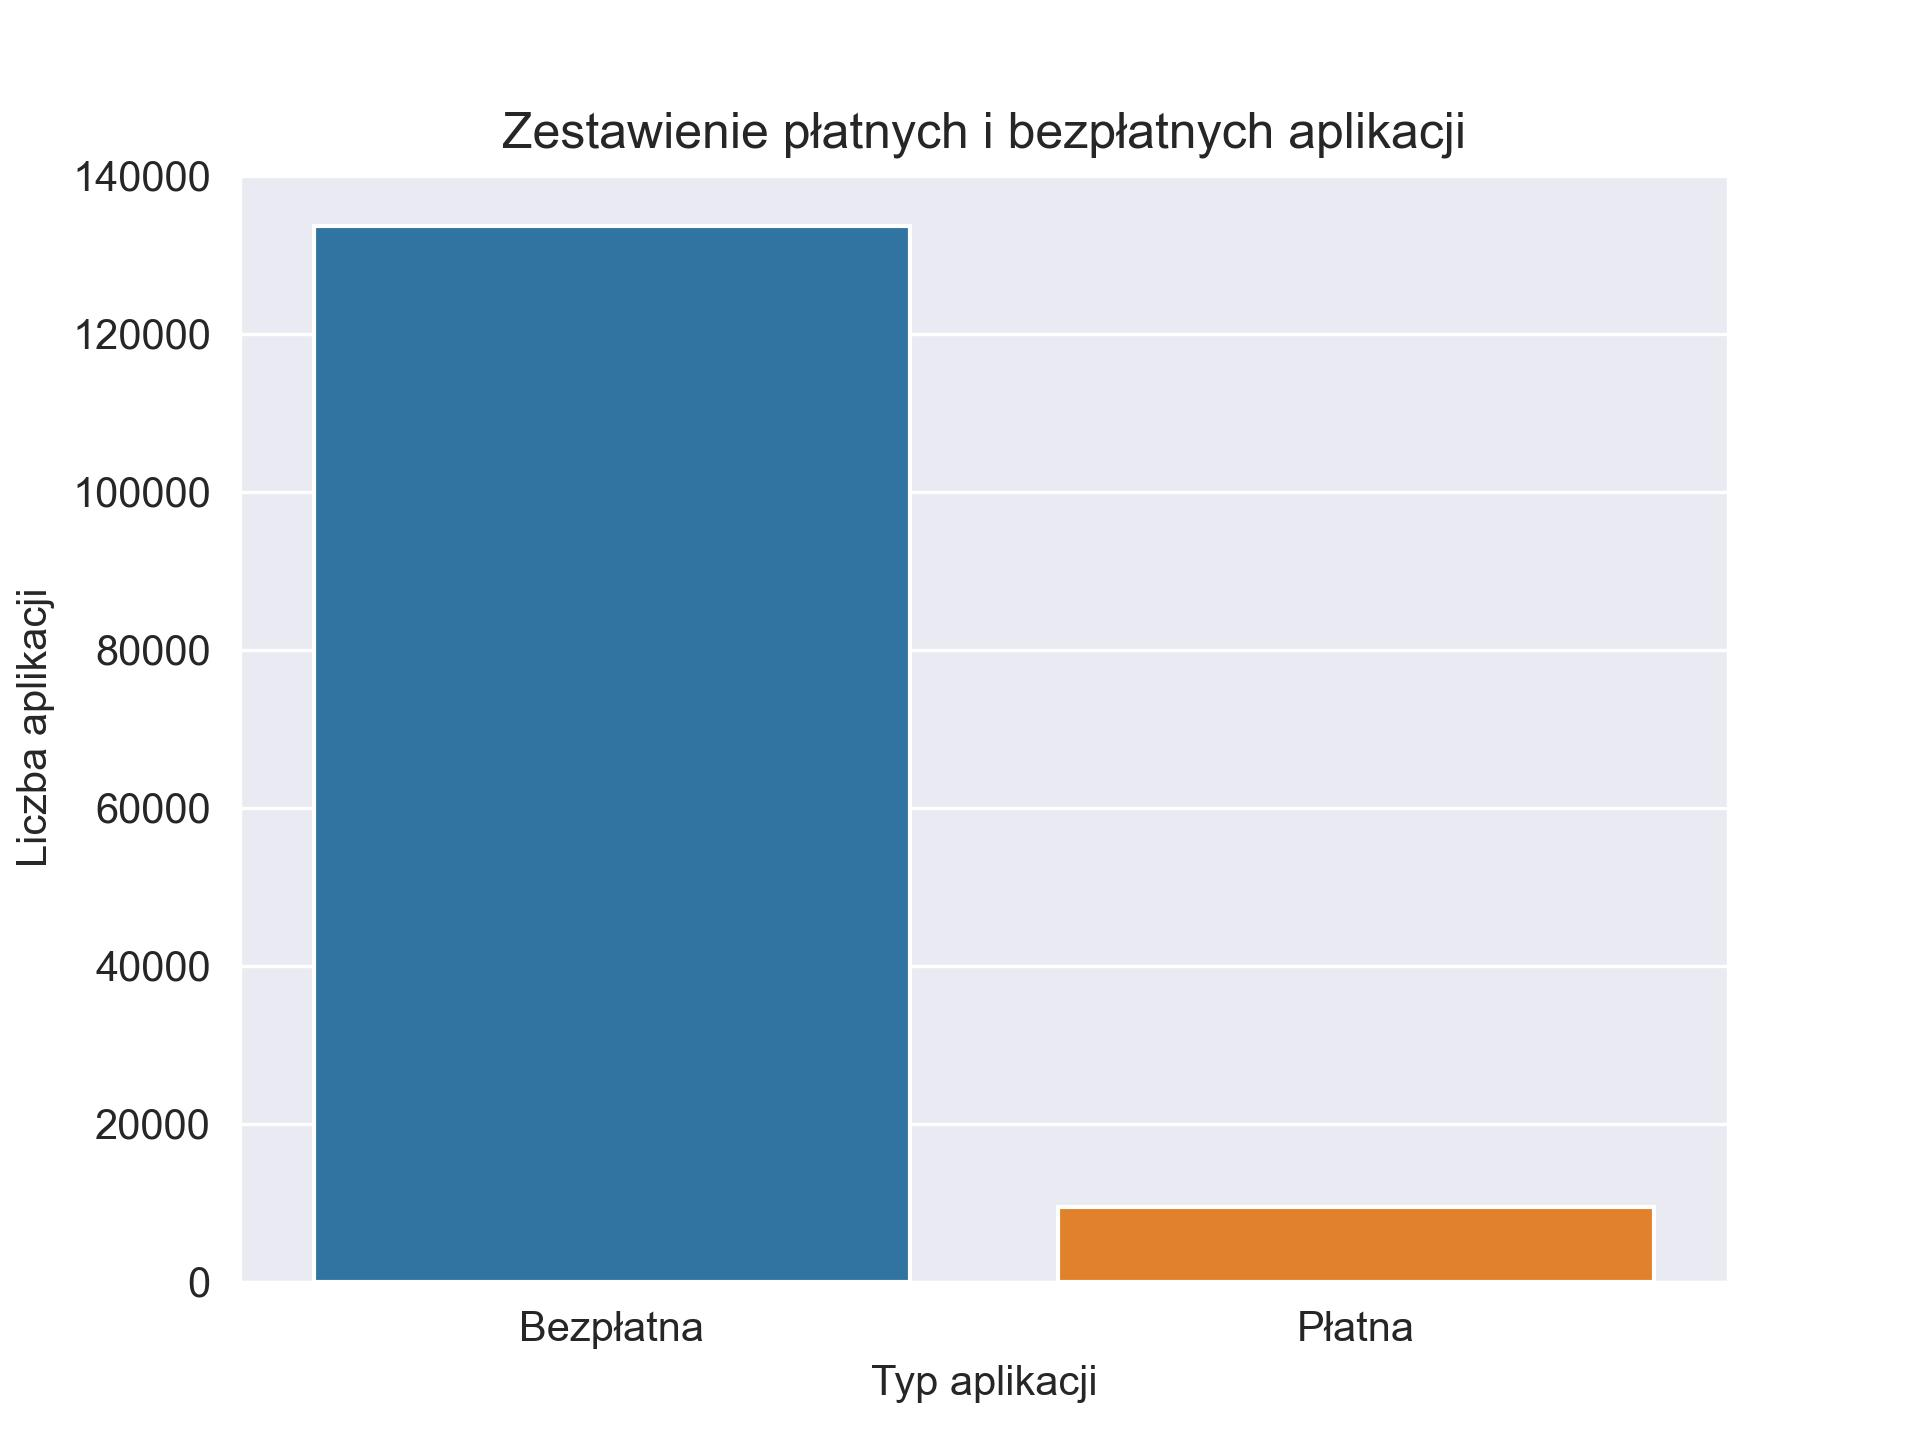
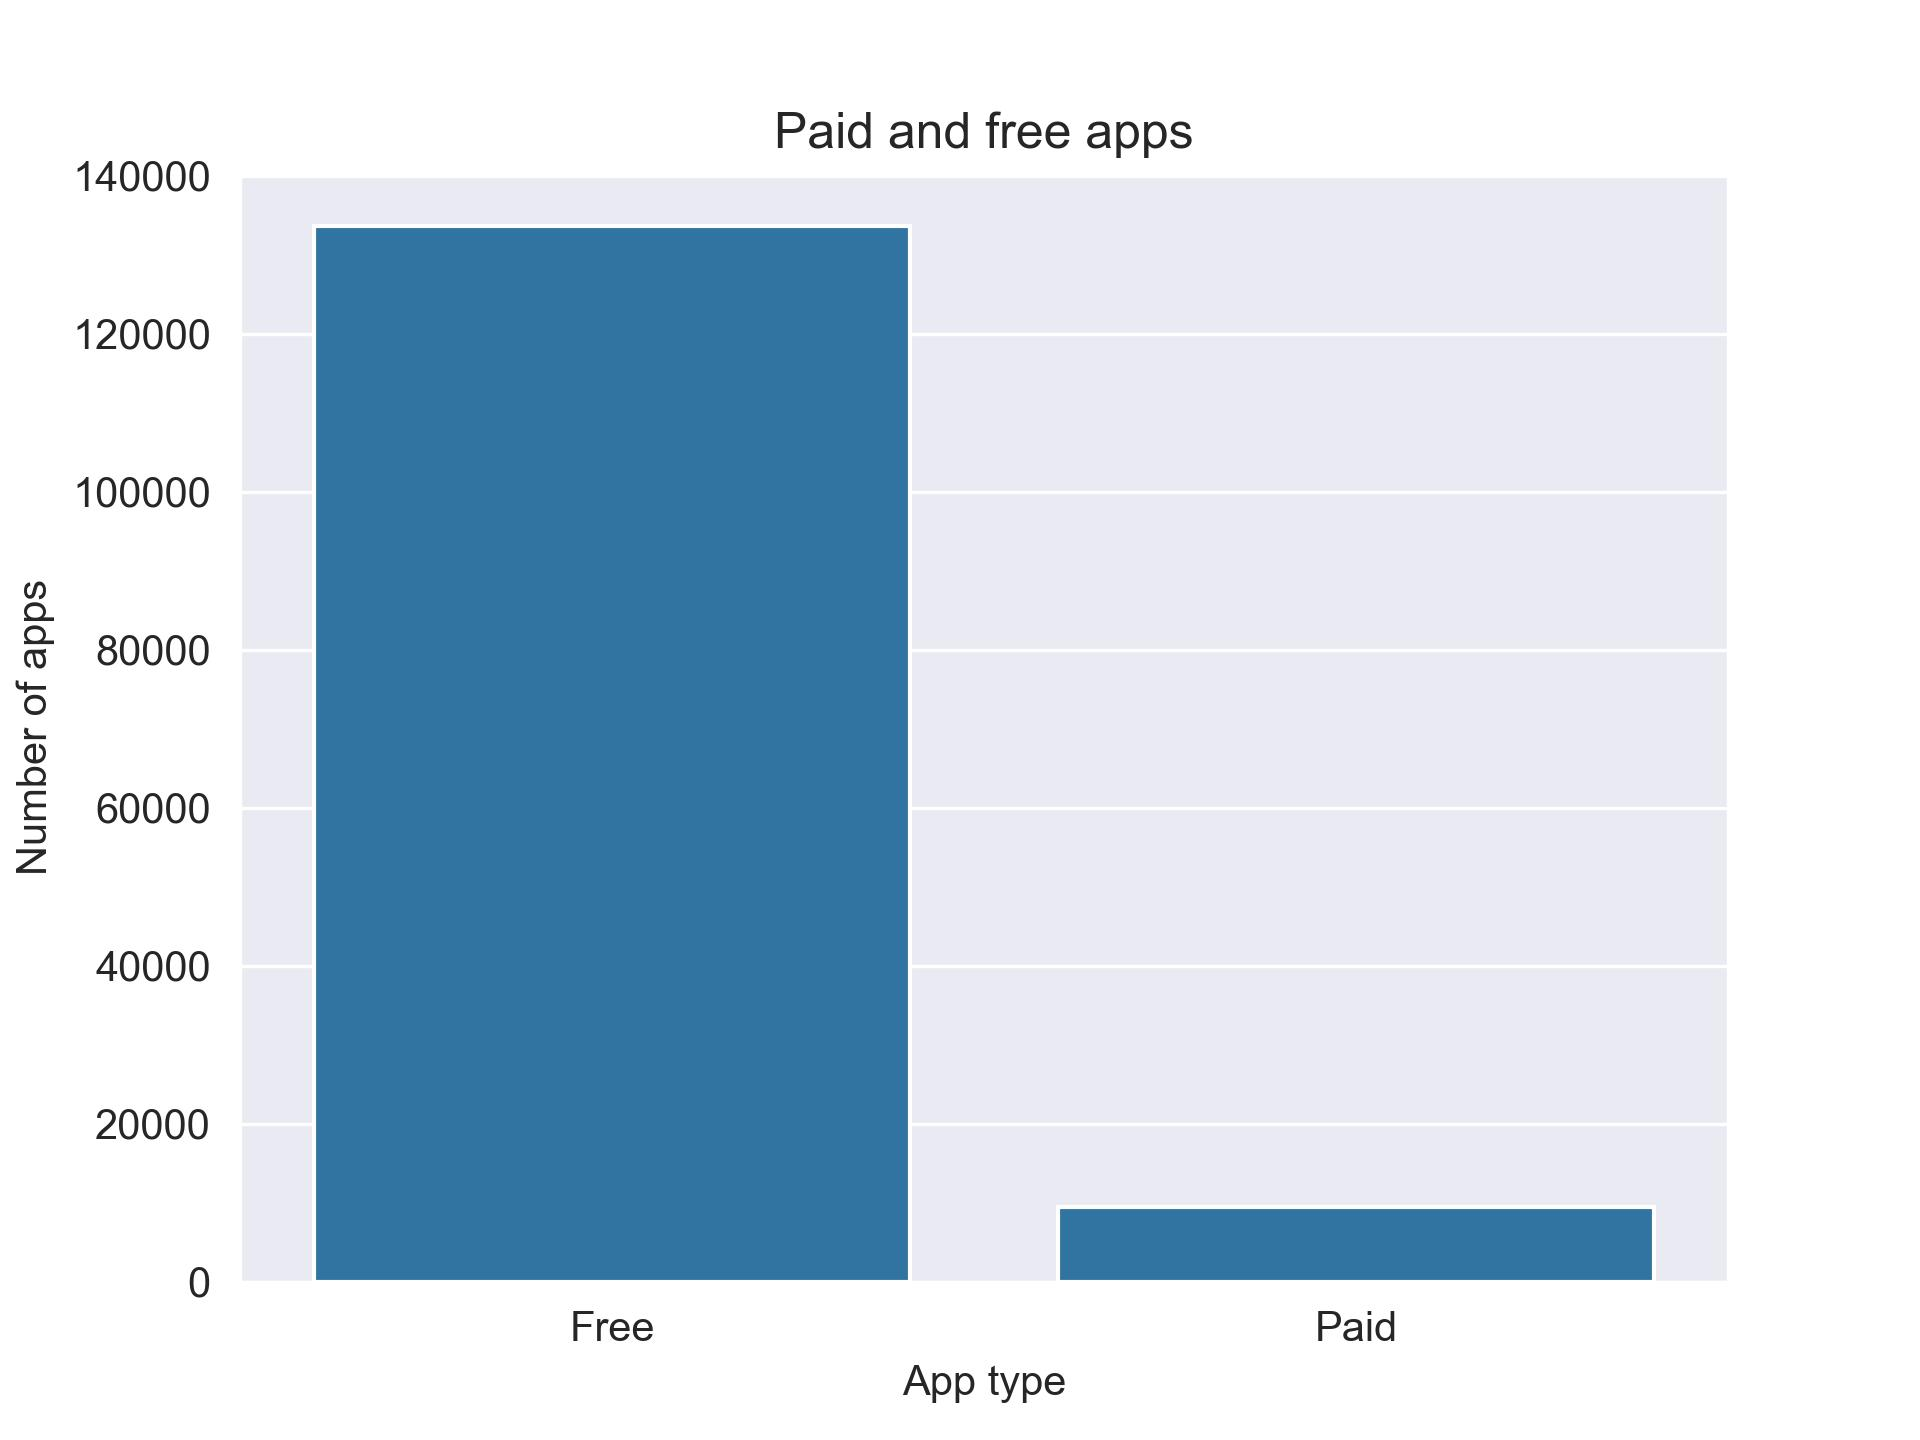
description fix and translated plots to english

diff --git a/data_visualization/parameters_visualization.py b/data_visualization/parameters_visualization.py
@@ -84,9 +84,9 @@ def visualize_installs(df):
     for i, tick in enumerate(plt.gca().xaxis.get_major_ticks()):
         if i % 3 != 0:
             tick.set_visible(False)
-    plt.xlabel("Liczba pobrań aplikacji")
-    plt.ylabel("Liczba aplikacji")
-    plt.title("Rozkład liczby aplikacji o danej ilości pobrań")
+    plt.xlabel("Number of installs")
+    plt.ylabel("Number of apps")
+    plt.title("Distribution of the number of applications by download count")
     plt.savefig('./graphs/installs.jpg', format='jpg', dpi=300)
     # plt.show()
 
@@ -94,9 +94,9 @@ def visualize_installs(df):
 def visualize_scores(df):
     scores = df['score']
     sns.kdeplot(data=df, x=scores, fill=True)
-    plt.xlabel('Ocena aplikacji')
-    plt.ylabel('Gęstość prawdopodobieństwa')
-    plt.title('Rozkład ocen aplikacji')
+    plt.xlabel('App score')
+    plt.ylabel('Probability density')
+    plt.title('Distribution of the app scores')
     plt.savefig('./graphs/scores.jpg', format='jpg', dpi=300)
     # plt.show()
 
@@ -106,9 +106,9 @@ def visualize_ratings_and_scores(df):
     X.reverse()
     Y.reverse()
     sns.barplot(x=X, y=Y)
-    plt.title("Średnia ilość otrzymanych ocen z oceną w danym przedziale")
-    plt.xlabel("Przedział ocen")
-    plt.ylabel("Średnia ilość otrzymanych ocen")
+    plt.title("Average number of ratings by app belonging to score interval")
+    plt.xlabel("Score interval")
+    plt.ylabel("Average number of ratings")
     plt.savefig('./graphs/ratings_scores.jpg', format='jpg', dpi=300)
     # plt.show()
 
@@ -118,9 +118,9 @@ def visualize_reviews_and_scores(df):
     X.reverse()
     Y.reverse()
     sns.barplot(x=X, y=Y)
-    plt.title("Średnia ilość otrzymanych recenzji w zależności od oceny")
-    plt.xlabel("Przedział ocen")
-    plt.ylabel("Średnia ilość otrzymanych recenzji")
+    plt.title("Average number of reviews by app belonging to score interval")
+    plt.xlabel("Score interval")
+    plt.ylabel("Average number of reviews")
     plt.savefig('./graphs/reviews_scores.jpg', format='jpg', dpi=300)
     # plt.show()
 
@@ -141,15 +141,15 @@ def visualize_categories(df):
     sns.barplot(x=X, y=Y, orient='h', width=0.75, ax=ax)
     for bars_group in ax.containers:
         ax.bar_label(bars_group, padding=2, fontsize=9)
-    ax.set(xlabel="Liczba aplikacji", ylabel="Kategoria")
+    ax.set(xlabel="Number of apps", ylabel="Category")
 
     sns.despine()
     sns.set_style('darkgrid')
     plt.rc('ytick', labelsize=8)
-    plt.title("Liczba aplikacji z poszczególnych kategorii", fontsize=16)
+    plt.title("Number of apps from particular categories", fontsize=16)
     plt.tight_layout()
     plt.savefig('./graphs/categories.jpg', format='jpg', dpi=300)
-    plt.show()
+    # plt.show()
 
 
 def visualize_paid_and_free_apps(df):
@@ -163,13 +163,13 @@ def visualize_paid_and_free_apps(df):
             is_free_dict['free'] += 1
         else:
             is_free_dict['paid'] += 1
-    X = ["Bezpłatna", "Płatna"]
+    X = ["Free", "Paid"]
     Y = list(is_free_dict.values())
     print(is_free_dict)
     sns.barplot(x=X, y=Y)
-    plt.title("Zestawienie płatnych i bezpłatnych aplikacji")
-    plt.xlabel("Typ aplikacji")
-    plt.ylabel("Liczba aplikacji")
+    plt.title("Paid and free apps")
+    plt.xlabel("App type")
+    plt.ylabel("Number of apps")
     plt.savefig('./graphs/paid_free_apps.jpg', format='jpg', dpi=300)
     # plt.show()
 
